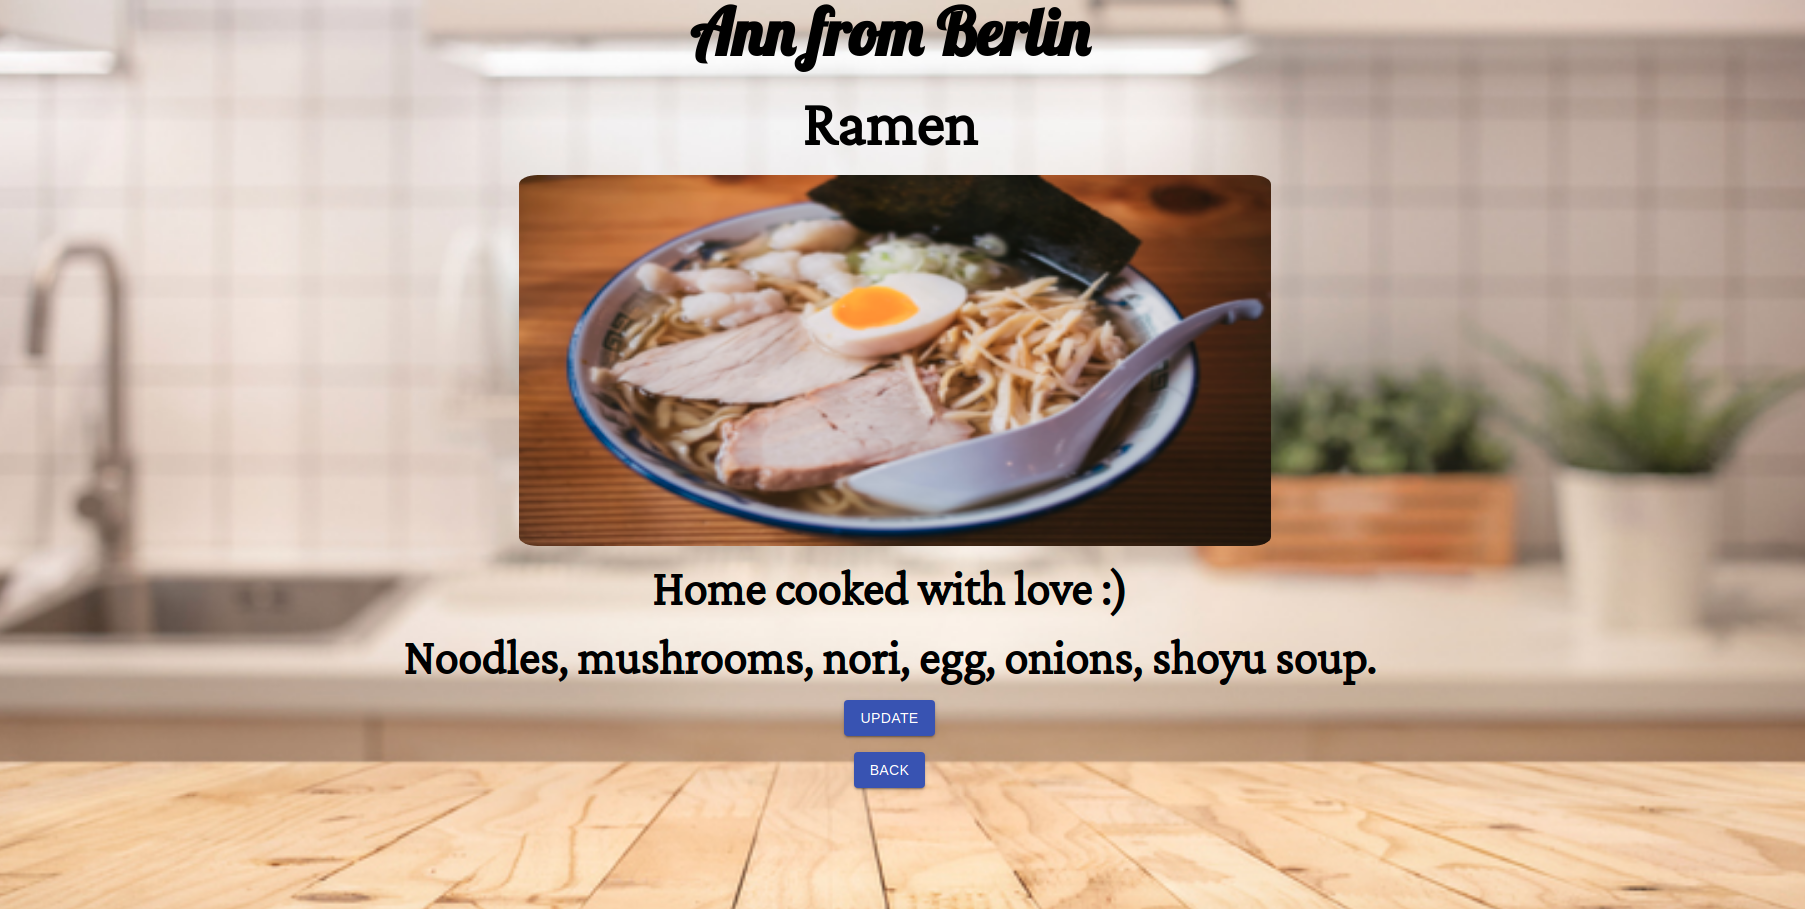
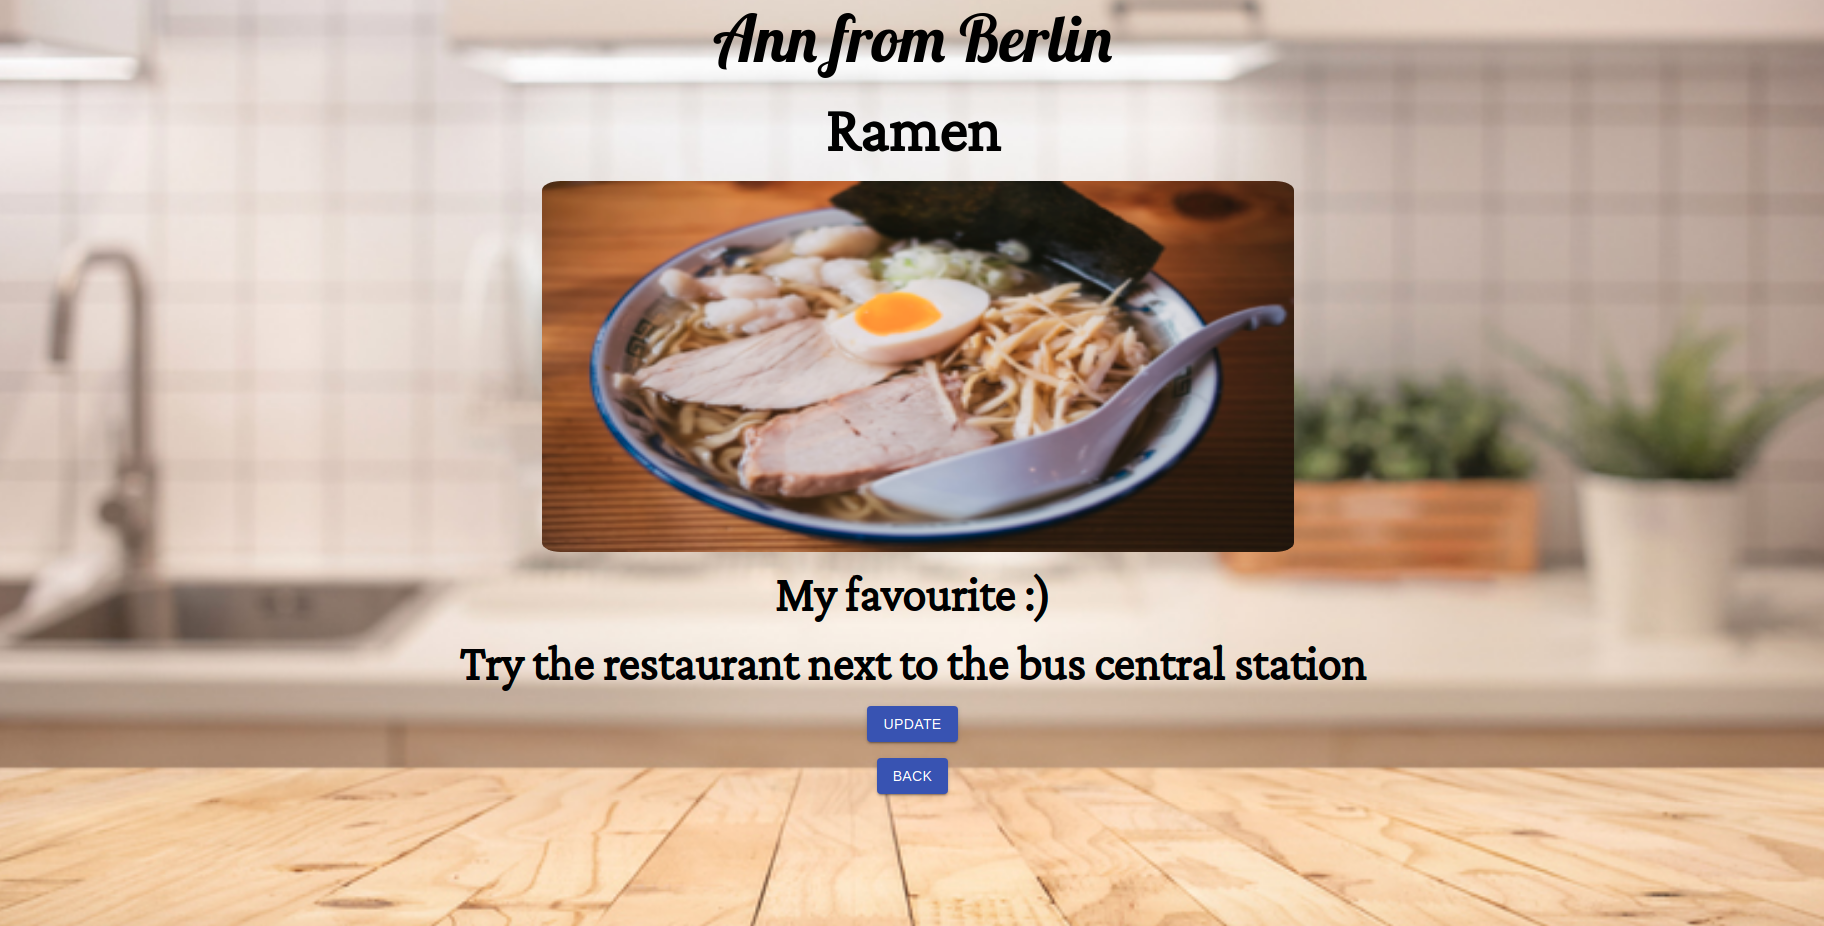
refactor: font weight, add new image for docs

diff --git a/client/src/components/Details/Details.scss b/client/src/components/Details/Details.scss
@@ -3,7 +3,7 @@
 .dish-publisher {
   font-family: $font-dish-publisher;
   font-size: 4rem;
-  font-weight: 900;
+  font-weight: 100;
 }
 
 .dish-title {

diff --git a/client/src/components/Profile/Profile.scss b/client/src/components/Profile/Profile.scss
@@ -2,6 +2,7 @@
 .user {
   font-family: $font-dish-publisher;
   font-size: 3rem;
+  font-weight: 100;
 }
 .avatar-box {
   display: flex;
